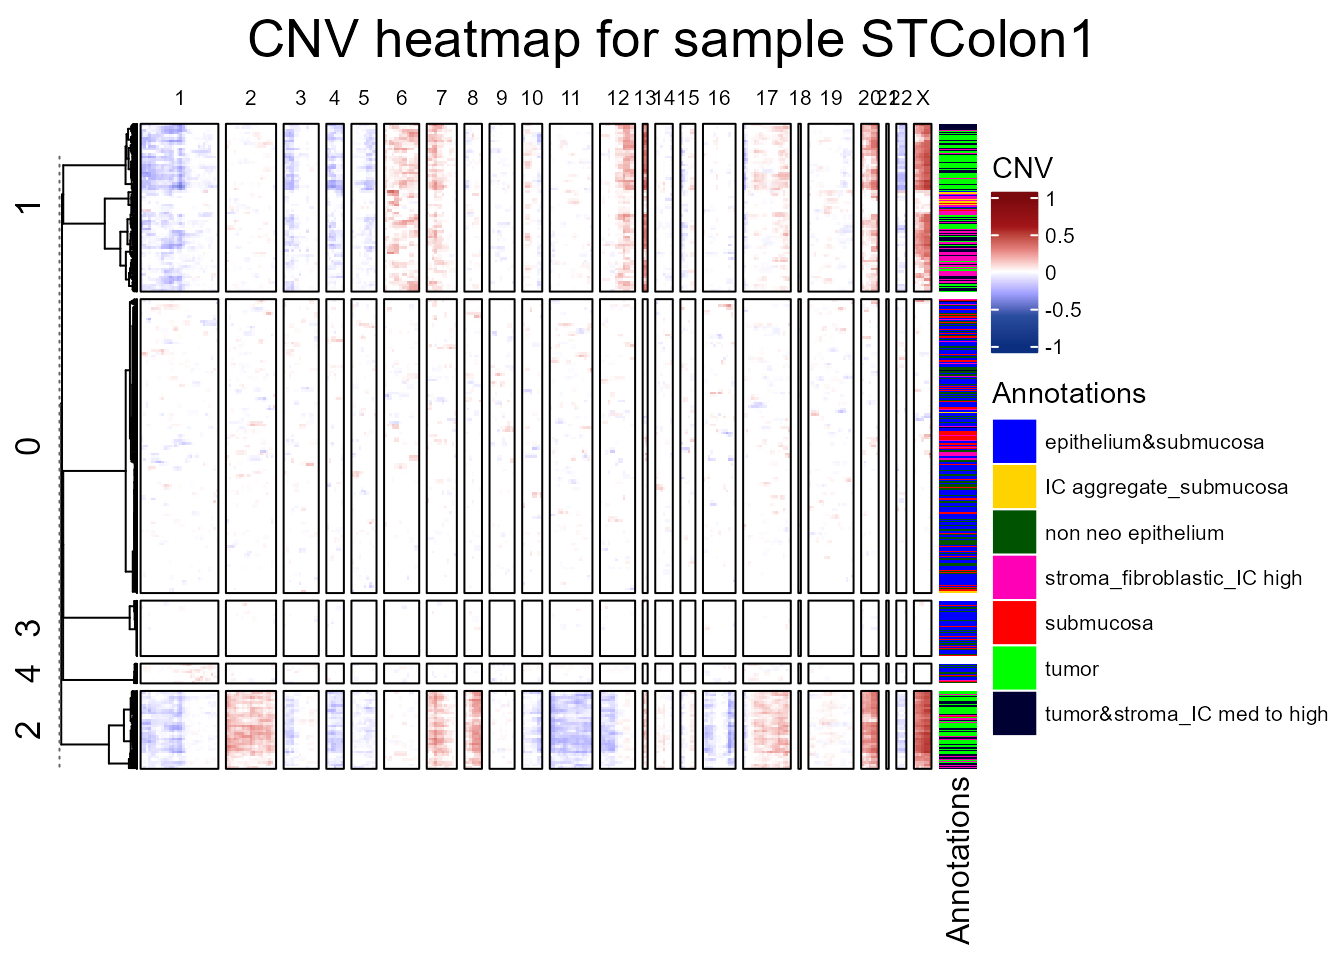
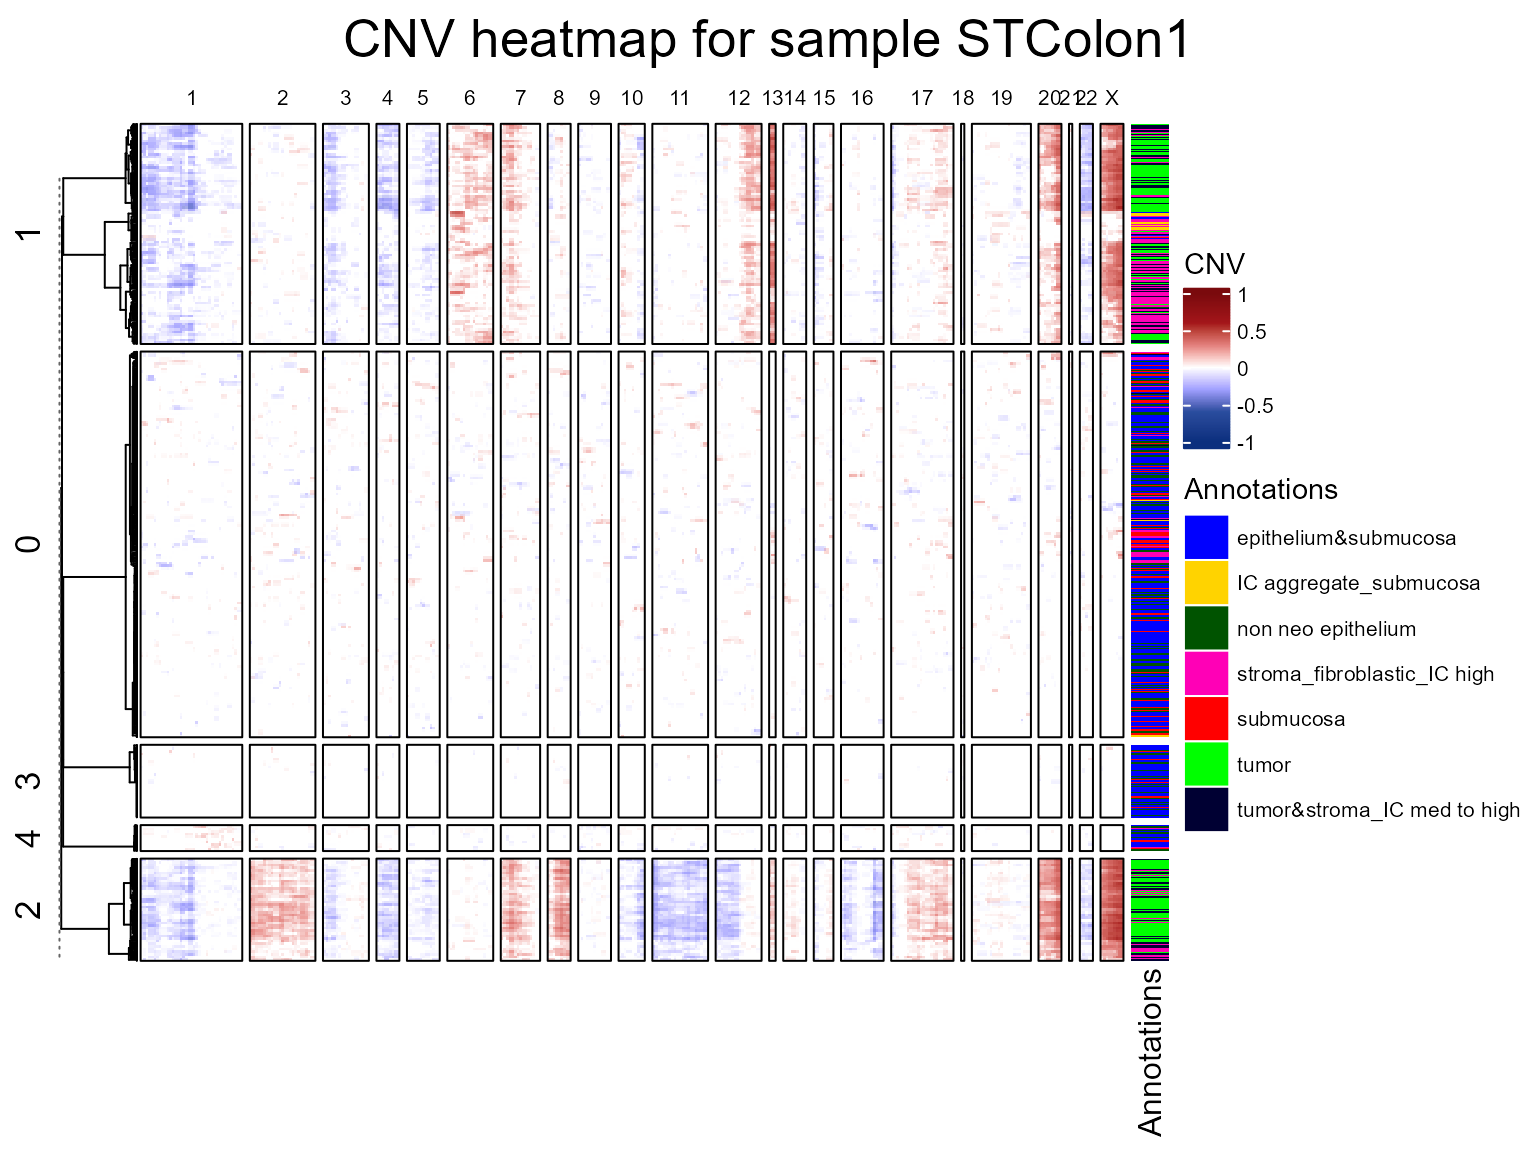
site changes

Changed region(s): [[0.0, 0.0, 1.0, 1.0]]

diff --git a/docs/index.html b/docs/index.html
@@ -75,23 +75,15 @@
 <h2 id="capabilities">Capabilities<a class="anchor" aria-label="anchor" href="#capabilities"></a>
 </h2>
 <p><code>fastCNV</code> can plot a heatmap of inferred CNVs:</p>
-<div class="float">
-<img src="https://must-bioinfo.github.io/fastCNV/articles/fastCNV_sc_files/figure-html/run1-1.jpg" alt="CNV heatmap for scColon1"><div class="figcaption">CNV heatmap for scColon1</div>
-</div>
+<p><img src="https://must-bioinfo.github.io/fastCNV/articles/fastCNV_sc_files/figure-html/run1-1.jpg"></p>
 <p>It also calculates a <code>cnv_fraction</code>, which can be plotted with <code>Seurat</code> standard plotting functions:</p>
-<div class="float">
-<img src="https://must-bioinfo.github.io/fastCNV/articles/fastCNV_sc_files/figure-html/plot_cnv_umap-1.png" alt="“CNV fractions for sc data”"><div class="figcaption">“CNV fractions for sc data”</div>
-</div>
+<p><img src="https://must-bioinfo.github.io/fastCNV/articles/fastCNV_sc_files/figure-html/plot_cnv_umap-1.png"></p>
 <p><code>cnv_fractions</code> can also be visualized spatially for Spatial Transcriptomics samples:</p>
-<div class="float">
-<img src="https://must-bioinfo.github.io/fastCNV/articles/fastCNV_ST_files/figure-html/plot_cnv_fraction1-1.png" alt="CNV fractions for ST data"><div class="figcaption">CNV fractions for ST data</div>
-</div>
+<p><img src="https://must-bioinfo.github.io/fastCNV/articles/fastCNV_ST_files/figure-html/plot_cnv_fraction-1.png"></p>
 <p>And <code>cnv_fractions</code> can be used to obtain clonal clusters (<code>cnv_clusters</code>):</p>
 <p><img src="https://must-bioinfo.github.io/fastCNV/articles/fastCNV_sc_files/figure-html/plot_cnv_clusters-1.png" alt="Clonal clusters for sc data" width="50%"></p>
 <p>Additionally, the inferred CNVs can be plotted by clone cluster :</p>
-<div class="float">
-<img src="https://must-bioinfo.github.io/fastCNV/articles/fastCNV_sc_files/figure-html/hm_cnv_cl-1.jpg" alt="CNV heatmap by clonal cluster"><div class="figcaption">CNV heatmap by clonal cluster</div>
-</div>
+<p><img src="https://must-bioinfo.github.io/fastCNV/articles/fastCNV_sc_files/figure-html/hm_cnv_cl-1.jpg"></p>
 <p>And the subclonality tree can be plotted too :</p>
 <p><img src="https://must-bioinfo.github.io/fastCNV/articles/fastCNV_sc_files/figure-html/tree_cnv-1.png" alt="Subclonality tree" width="500"></p>
 </div>

diff --git a/docs/articles/fastCNV_ST.html b/docs/articles/fastCNV_ST.html
@@ -382,7 +382,7 @@ directly using the parameter <code>splitPlotOfVar</code> of the
 <code><a href="../reference/plotCNVResults.html">plotCNVResults()</a></code> function.</p>
 <div class="sourceCode" id="cb15"><pre class="downlit sourceCode r">
 <code class="sourceCode R"><span><span class="fu"><a href="../reference/plotCNVResults.html">plotCNVResults</a></span><span class="op">(</span><span class="va">STColon1</span>, referenceVar <span class="op">=</span> <span class="st">"annot"</span>, splitPlotOnVar <span class="op">=</span> <span class="st">"cnv_clusters"</span><span class="op">)</span></span></code></pre></div>
-<p><img src="fastCNV_ST_files/figure-html/hm_cnv_cl-1.png" width="672"></p>
+<p><img src="fastCNV_ST_files/figure-html/hm_cnv_cl-1.png" width="768"></p>
 </div>
 <div class="section level2">
 <h2 id="cnv-tree">CNV tree<a class="anchor" aria-label="anchor" href="#cnv-tree"></a>

diff --git a/docs/articles/fastCNV_sc.html b/docs/articles/fastCNV_sc.html
@@ -415,7 +415,7 @@ directly using the parameter <code>splitPlotOfVar</code> of the
 <code><a href="../reference/plotCNVResults.html">plotCNVResults()</a></code> function.</p>
 <div class="sourceCode" id="cb16"><pre class="downlit sourceCode r">
 <code class="sourceCode R"><span><span class="fu"><a href="../reference/plotCNVResults.html">plotCNVResults</a></span><span class="op">(</span><span class="va">scColon1</span>, referenceVar <span class="op">=</span> <span class="st">"annot"</span>, splitPlotOnVar <span class="op">=</span> <span class="st">"cnv_clusters"</span><span class="op">)</span></span></code></pre></div>
-<p><img src="fastCNV_sc_files/figure-html/hm_cnv_cl-1.png" width="672"></p>
+<p><img src="fastCNV_sc_files/figure-html/hm_cnv_cl-1.png" width="768"></p>
 </div>
 <div class="section level2">
 <h2 id="cnv-tree">CNV tree<a class="anchor" aria-label="anchor" href="#cnv-tree"></a>

diff --git a/README.md b/README.md
@@ -16,15 +16,15 @@ remotes::install_github("must-bioinfo/fastCNV")
 
 `fastCNV` can plot a heatmap of inferred CNVs: 
 
-![CNV heatmap for scColon1](https://must-bioinfo.github.io/fastCNV/articles/fastCNV_sc_files/figure-html/run1-1.jpg)
+![](https://must-bioinfo.github.io/fastCNV/articles/fastCNV_sc_files/figure-html/run1-1.jpg)
 
 It also calculates a `cnv_fraction`, which can be plotted with `Seurat` standard plotting functions:
 
-!["CNV fractions for sc data"](https://must-bioinfo.github.io/fastCNV/articles/fastCNV_sc_files/figure-html/plot_cnv_umap-1.png)
+![](https://must-bioinfo.github.io/fastCNV/articles/fastCNV_sc_files/figure-html/plot_cnv_umap-1.png)
 
 `cnv_fractions` can also be visualized spatially for Spatial Transcriptomics samples:
 
-![CNV fractions for ST data](https://must-bioinfo.github.io/fastCNV/articles/fastCNV_ST_files/figure-html/plot_cnv_fraction1-1.png)
+![](https://must-bioinfo.github.io/fastCNV/articles/fastCNV_ST_files/figure-html/plot_cnv_fraction-1.png )
 
 And `cnv_fractions` can be used to obtain clonal clusters (`cnv_clusters`):
 
@@ -32,7 +32,7 @@ And `cnv_fractions` can be used to obtain clonal clusters (`cnv_clusters`):
 
 Additionally, the inferred CNVs can be plotted by clone cluster : 
 
-![CNV heatmap by clonal cluster](https://must-bioinfo.github.io/fastCNV/articles/fastCNV_sc_files/figure-html/hm_cnv_cl-1.jpg)
+![](https://must-bioinfo.github.io/fastCNV/articles/fastCNV_sc_files/figure-html/hm_cnv_cl-1.jpg)
 
 And the subclonality tree can be plotted too : 
 
